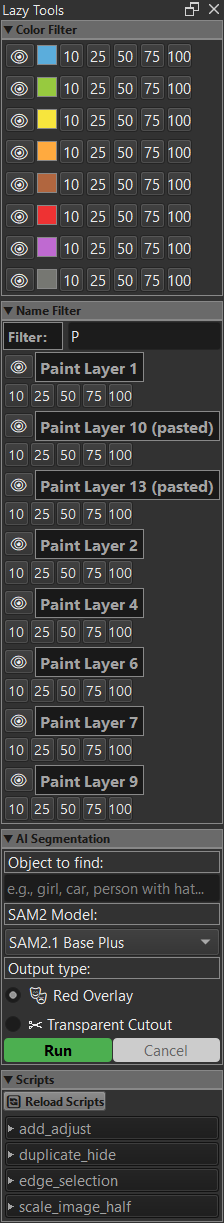
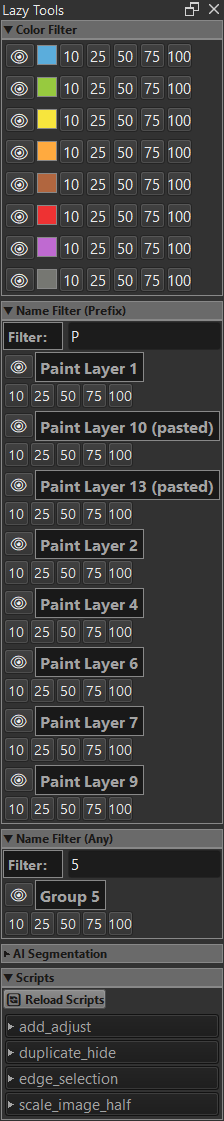
add new function

diff --git a/lazy_tools/widgets/name_filter_widgets.py b/lazy_tools/widgets/name_filter_widgets.py
@@ -17,10 +17,12 @@ from lazy_tools.utils.color_scheme import ColorScheme
 
 class NameFilterSection(QWidget):
 
-    def __init__(self, parent=None):
+    def __init__(self, parent=None, use_prefix_match=True, default_filter="_"):
         super().__init__(parent)
         self.parent_docker = parent
         self.name_rows: Dict[int, "NameFilterRow"] = {}
+        self.use_prefix_match = use_prefix_match
+        self.default_filter = default_filter
 
         # Main layout
         main_layout = QVBoxLayout()
@@ -41,9 +43,9 @@ class NameFilterSection(QWidget):
         filter_label.setFixedWidth(60)
         filter_row.addWidget(filter_label)
 
-        # Create text input with default value "_"
+        # Create text input with default value
         self.filter_input = QLineEdit()
-        self.filter_input.setText("_")
+        self.filter_input.setText(self.default_filter)
         self.filter_input.setPlaceholderText("Enter filter pattern...")
         self.filter_input.textChanged.connect(self.on_filter_changed)
         filter_row.addWidget(self.filter_input)
@@ -118,8 +120,15 @@ class NameFilterSection(QWidget):
             return targetNodes
         root = doc.rootNode()
         for node in self.get_all_nodes(root):
-            if node.name().startswith(filter_pattern):
-                targetNodes.append(node)
+            node_name = node.name()
+            if self.use_prefix_match:
+                # Prefix match: node name starts with the filter pattern
+                if node_name.startswith(filter_pattern) and filter_pattern != "":
+                    targetNodes.append(node)
+            else:
+                # Any match: filter pattern appears anywhere in node name
+                if filter_pattern in node_name and filter_pattern != "":
+                    targetNodes.append(node)
         return targetNodes
 
     def get_all_nodes(self, node):
@@ -200,19 +209,27 @@ class NameFilterRow(QWidget):
 
         self.setLayout(main_layout)
 
-    def on_label_clicked(self, event):  # noqa: ARG002
-        """Activate the first node with this name when label is clicked."""
+    def on_label_clicked(self, event):
+        """Handle clicks on the label: regular click activates, Ctrl+right click removes."""
+        from PyQt5.QtCore import Qt
+
+        try:
+            # Check if it's Ctrl+right click
+            if (event.button() == Qt.RightButton and
+                event.modifiers() & Qt.ControlModifier):
+                self.remove_first_node()
+            else:
+                # Regular click - activate the node
+                self.activate_first_node()
+
+        except Exception as e:
+            print(f"Error handling label click for {self.node_name}: {e}")
+
+    def activate_first_node(self):
+        """Activate the first node with this name."""
         try:
             doc = Krita.instance().activeDocument()
             if not doc:
-                return
-
-            window = Krita.instance().activeWindow()
-            if not window:
-                return
-
-            view = window.activeView()
-            if not view:
                 return
 
             # Find the first node with this name
@@ -228,6 +245,32 @@ class NameFilterRow(QWidget):
 
         except Exception as e:
             print(f"Error activating node {self.node_name}: {e}")
+
+    def remove_first_node(self):
+        """Remove the first node with this name."""
+        try:
+            doc = Krita.instance().activeDocument()
+            if not doc:
+                return
+
+            # Find the first node with this name
+            root_node = doc.rootNode()
+            target_node = self._find_first_node_by_name(root_node, self.node_name)
+
+            if target_node:
+                # Remove the node
+                parent = target_node.parentNode()
+                if parent:
+                    parent.removeChildNode(target_node)
+                    doc.refreshProjection()
+                    print(f"Removed node: {self.node_name}")
+                else:
+                    print(f"Cannot remove root node: {self.node_name}")
+            else:
+                print(f"No node found with name: {self.node_name}")
+
+        except Exception as e:
+            print(f"Error removing node {self.node_name}: {e}")
 
     def _find_first_node_by_name(self, node: Node, target_name: str):
         """Recursively find the first node with the target name."""

diff --git a/lazy_tools/lazy_tools_docker.py b/lazy_tools/lazy_tools_docker.py
@@ -57,14 +57,28 @@ class LazyToolsDockerWidget(QDockWidget):
         main_layout.addWidget(self.color_filter_section)
 
         ##############################
-        # Create collapsible Name Filter section
+        # Create collapsible Name Filter (Prefix) section
         ##############################
 
-        self.name_filter_section = CollapsibleSection("Name Filter")
-        self.name_filter_content = NameFilterSection(self)
+        self.name_filter_section = CollapsibleSection("Name Filter (Prefix)")
+        self.name_filter_content = NameFilterSection(
+            self, default_filter="_", use_prefix_match=True
+        )
         self.name_filter_section.set_content_widget(self.name_filter_content)
 
         main_layout.addWidget(self.name_filter_section)
+
+        ##############################
+        # Create collapsible Name Filter  section
+        ##############################
+
+        self.name_filter_section2 = CollapsibleSection("Name Filter (Any)")
+        self.name_filter_content2 = NameFilterSection(
+            self, default_filter="", use_prefix_match=False
+        )
+        self.name_filter_section2.set_content_widget(self.name_filter_content2)
+
+        main_layout.addWidget(self.name_filter_section2)
 
         ##############################
         # Check if .pt files exist in models directory before adding AI Segmentation section

diff --git a/README.md b/README.md
@@ -15,12 +15,19 @@ A Krita plugin that adds layer management and automation tools.
 - Click a color to show/hide all layers with that specific color label
 
 ### Name Filtering
-![Name Filtering](./lazy_tools/images/2.png)
-- Toggle visibility of nodes by their name prefix
-- Default filter value is "_" (underscore)
-- Automatically updates the node list every second
-- The list is case-insensitive sorting
-- Click the name label will activate the first node whose name matchs the label
+Filter and manage layers by name with powerful matching options and quick actions.
+
+**Features:**
+- **Two Matching Modes:**
+  - **Prefix Match**: Filter layers that start with the pattern (e.g., "bg_" matches "bg_layer", "bg_sky")
+  - **Any Match**: Filter layers containing the pattern anywhere (e.g., "bg" matches "bg_layer", "layer_bg", "debug")
+- Node list updates automatically every second
+- Layers sorted alphabetically regardless of case
+- **Quick Actions:**
+  - **Click** the name label to activate the first matching node
+  - **Ctrl + Right Click** the name label to remove the first matching node
+- **Visibility Toggle**: Eye icon (👁) to show/hide all layers with that name
+- **Opacity Controls**: Quick buttons to set opacity to 10%, 25%, 50%, 75%, or 100%
 
 ### AI Segmentation
 - AI-powered image segmentation using Florence-2 and SAM2.1
